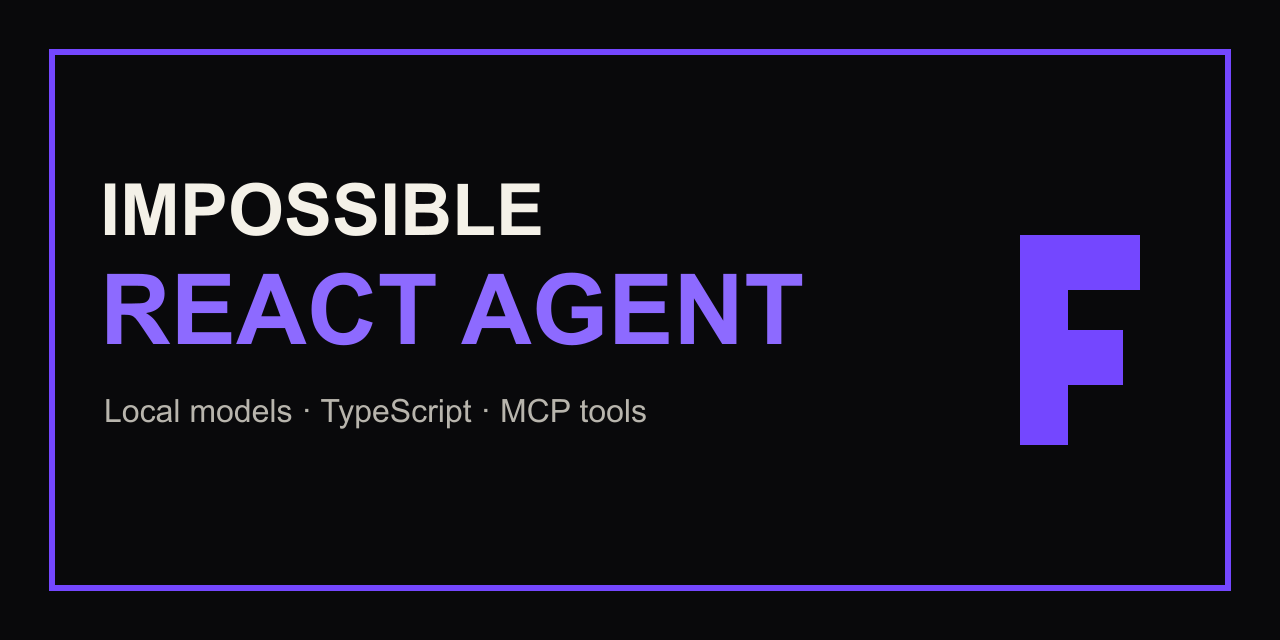
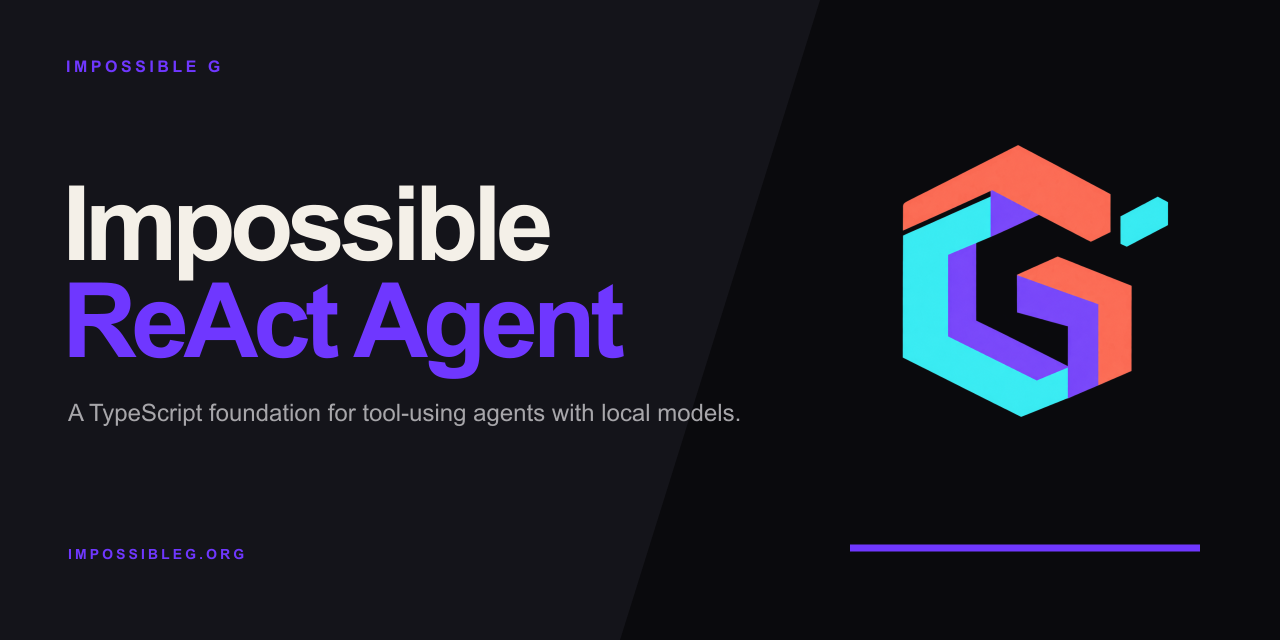
adding branding corrections

Changed region(s): [[0.0312, 0.0625, 0.9688, 0.9375]]

diff --git a/docs/brand.md b/docs/brand.md
@@ -1,3 +1,9 @@
 # Repository artwork
 
-The README banner has light and dark variants. `social-preview.png` is ready for GitHub's repository social preview uploader. Violet distinguishes agent orchestration from the cyan used by the MCP server template while retaining the Impossible G palette.
+The repository uses the canonical Impossible G mark, palette, typography, and social-preview composition. Violet identifies the ReAct Agent within the shared system.
+
+- `impossible-react-agent-header.png` is the transparent README header with the project pill.
+- `impossible-react-agent-scene.png` shows the reasoning, action, observation, and continuation cycle.
+- `social-preview.png` is the 1280 × 640 image for GitHub's repository social preview.
+
+The source of truth is `tools/generate-github-brand.mjs` in the Impossible G website repository. Regenerate artwork there rather than constructing independent repository marks.

diff --git a/README.md b/README.md
@@ -1,13 +1,16 @@
-<picture>
-  <source media="(prefers-color-scheme: dark)" srcset="docs/assets/banner-dark.svg">
-  <img alt="Impossible ReAct Agent" src="docs/assets/banner-light.svg" width="100%">
-</picture>
+<p align="center">
+  <img src="docs/assets/impossible-react-agent-header.png" alt="Impossible G — ReAct Agent" width="860">
+</p>
 
 # Impossible ReAct Agent
 
 A TypeScript template for an agent that reasons, calls local or MCP tools, observes their results, and continues until it can answer. It defaults to a local OpenAI-compatible model endpoint and also accepts any compatible hosted endpoint you configure.
 
 ReAct means **Reasoning and Acting**. This repository is an agent runtime, not a React user interface.
+
+<p align="center">
+  <img src="docs/assets/impossible-react-agent-scene.png" alt="A reasoning, action, observation, and continuation loop" width="100%">
+</p>
 
 ## Included
 
